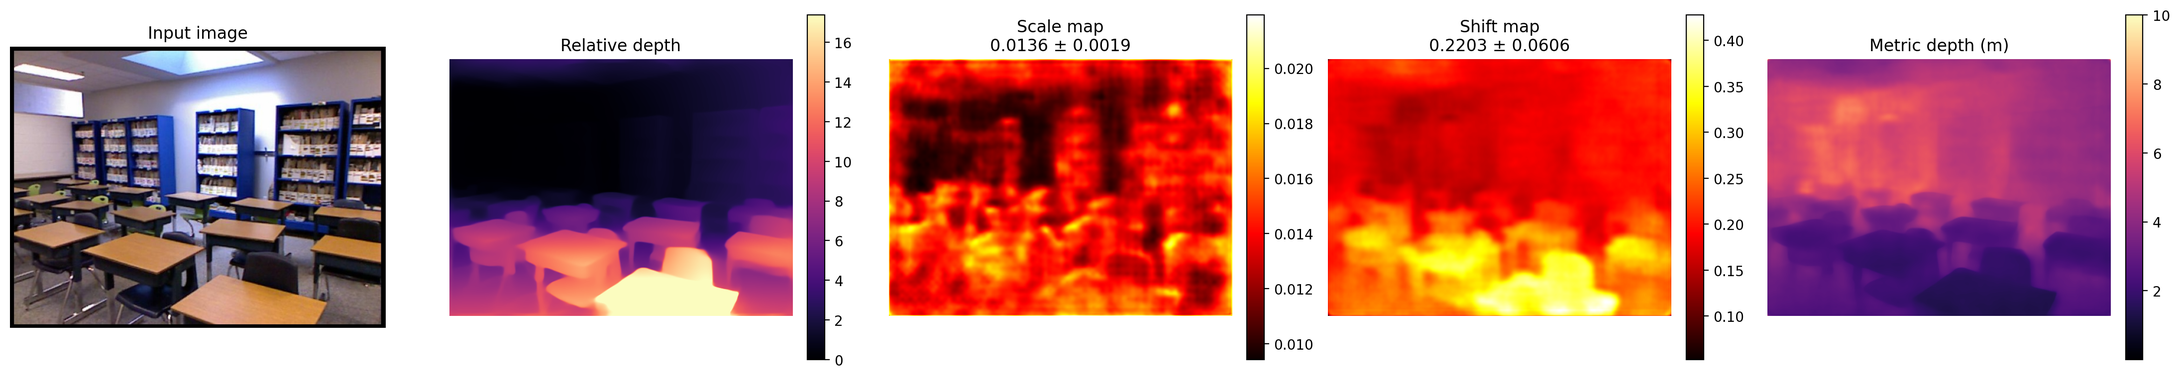
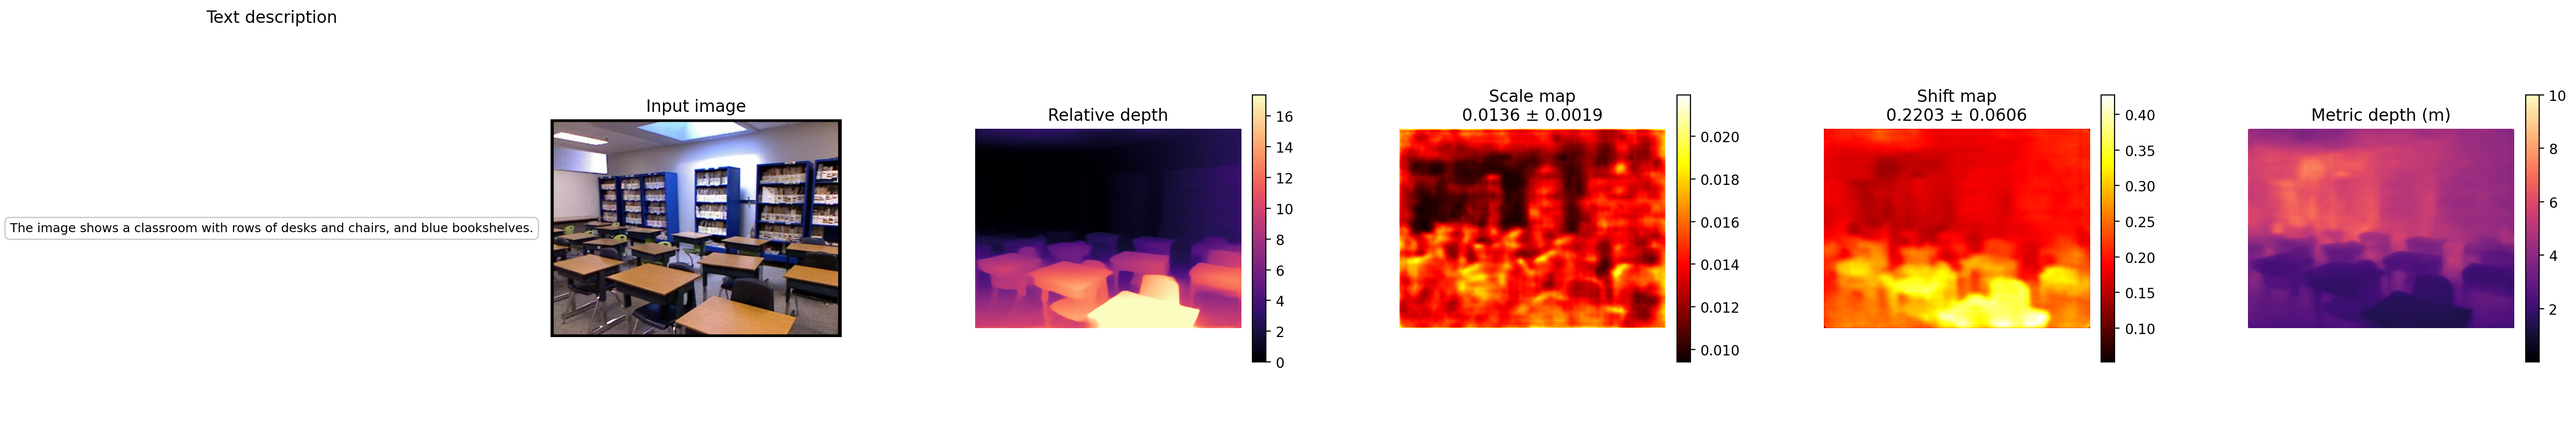
Add text panel to run.py visualisation; update demo output

diff --git a/run.py b/run.py
@@ -184,34 +184,42 @@ def percentile_range(arr, low_pct, high_pct):
     return vmin, vmax
 
 
-def save_panel(rgb, relative, scale_map, shift_map, metric, low_pct, high_pct, max_depth, min_depth, out_path):
-    fig, axes = plt.subplots(1, 5, figsize=(22, 4.5))
+def save_panel(rgb, relative, scale_map, shift_map, metric, low_pct, high_pct, max_depth, min_depth, out_path, text=''):
+    fig, axes = plt.subplots(1, 6, figsize=(26, 4.5))
 
-    axes[0].imshow(rgb)
-    axes[0].set_title('Input image')
+    # Text panel
+    axes[0].set_facecolor('#f5f5f5')
+    axes[0].text(0.5, 0.5, text, ha='center', va='center', wrap=True,
+                 fontsize=9, transform=axes[0].transAxes,
+                 bbox=dict(boxstyle='round,pad=0.4', facecolor='white', edgecolor='#cccccc'))
+    axes[0].set_title('Text description')
     axes[0].axis('off')
 
-    rel_vmin, rel_vmax = percentile_range(relative, low_pct, high_pct)
-    im1 = axes[1].imshow(relative, cmap='magma', vmin=rel_vmin, vmax=rel_vmax)
-    axes[1].set_title('Relative depth')
+    axes[1].imshow(rgb)
+    axes[1].set_title('Input image')
     axes[1].axis('off')
-    fig.colorbar(im1, ax=axes[1], fraction=0.046, pad=0.04)
 
-    im2 = axes[2].imshow(scale_map, cmap='hot')
-    axes[2].set_title(f'Scale map\n{scale_map.mean():.4f} ± {scale_map.std():.4f}')
+    rel_vmin, rel_vmax = percentile_range(relative, low_pct, high_pct)
+    im1 = axes[2].imshow(relative, cmap='magma', vmin=rel_vmin, vmax=rel_vmax)
+    axes[2].set_title('Relative depth')
     axes[2].axis('off')
-    fig.colorbar(im2, ax=axes[2], fraction=0.046, pad=0.04)
+    fig.colorbar(im1, ax=axes[2], fraction=0.046, pad=0.04)
 
-    im3 = axes[3].imshow(shift_map, cmap='hot')
-    axes[3].set_title(f'Shift map\n{shift_map.mean():.4f} ± {shift_map.std():.4f}')
+    im2 = axes[3].imshow(scale_map, cmap='hot')
+    axes[3].set_title(f'Scale map\n{scale_map.mean():.4f} ± {scale_map.std():.4f}')
     axes[3].axis('off')
-    fig.colorbar(im3, ax=axes[3], fraction=0.046, pad=0.04)
+    fig.colorbar(im2, ax=axes[3], fraction=0.046, pad=0.04)
+
+    im3 = axes[4].imshow(shift_map, cmap='hot')
+    axes[4].set_title(f'Shift map\n{shift_map.mean():.4f} ± {shift_map.std():.4f}')
+    axes[4].axis('off')
+    fig.colorbar(im3, ax=axes[4], fraction=0.046, pad=0.04)
 
     metric_clipped = np.clip(metric, min_depth, max_depth)
-    im4 = axes[4].imshow(metric_clipped, cmap='magma', vmin=min_depth, vmax=max_depth)
-    axes[4].set_title(f'Metric depth (m)')
-    axes[4].axis('off')
-    fig.colorbar(im4, ax=axes[4], fraction=0.046, pad=0.04)
+    im4 = axes[5].imshow(metric_clipped, cmap='magma', vmin=min_depth, vmax=max_depth)
+    axes[5].set_title(f'Metric depth (m)')
+    axes[5].axis('off')
+    fig.colorbar(im4, ax=axes[5], fraction=0.046, pad=0.04)
 
     plt.tight_layout()
     fig.savefig(out_path, dpi=200, bbox_inches='tight')
@@ -247,7 +255,7 @@ def main():
 
     save_panel(rgb_uint8, relative_np, scale_np, shift_np, metric_np,
                args.vis_low_percentile, args.vis_high_percentile,
-               args.max_depth, args.min_depth, args.output)
+               args.max_depth, args.min_depth, args.output, text=args.text)
     print(f"Saved visualisation to {args.output}")
 
 
